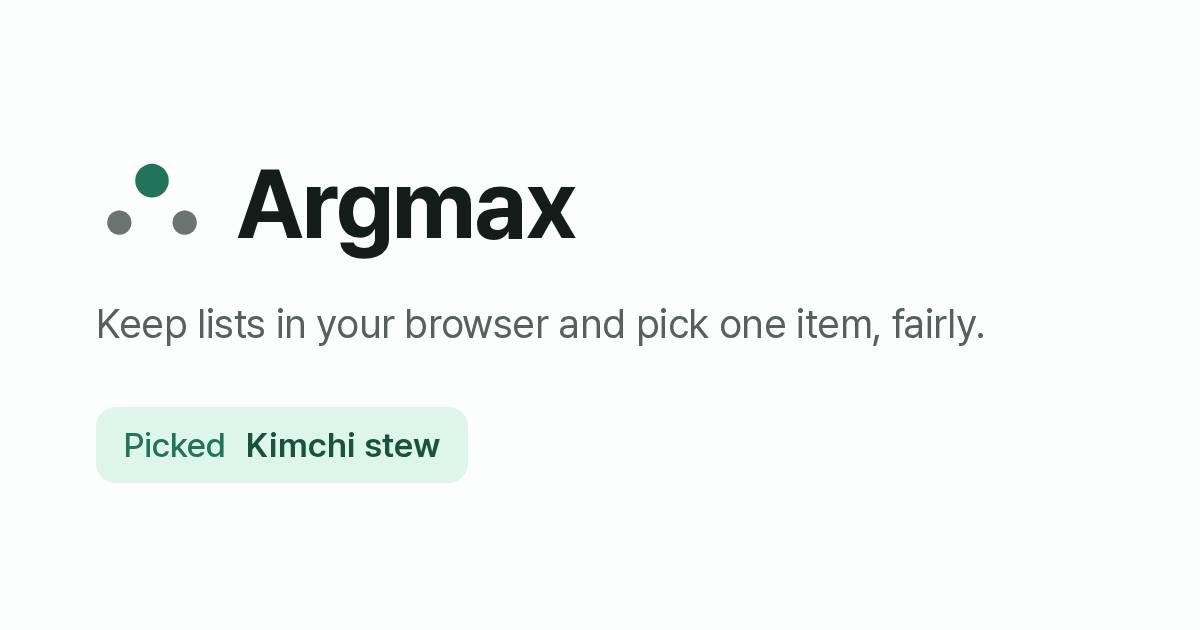
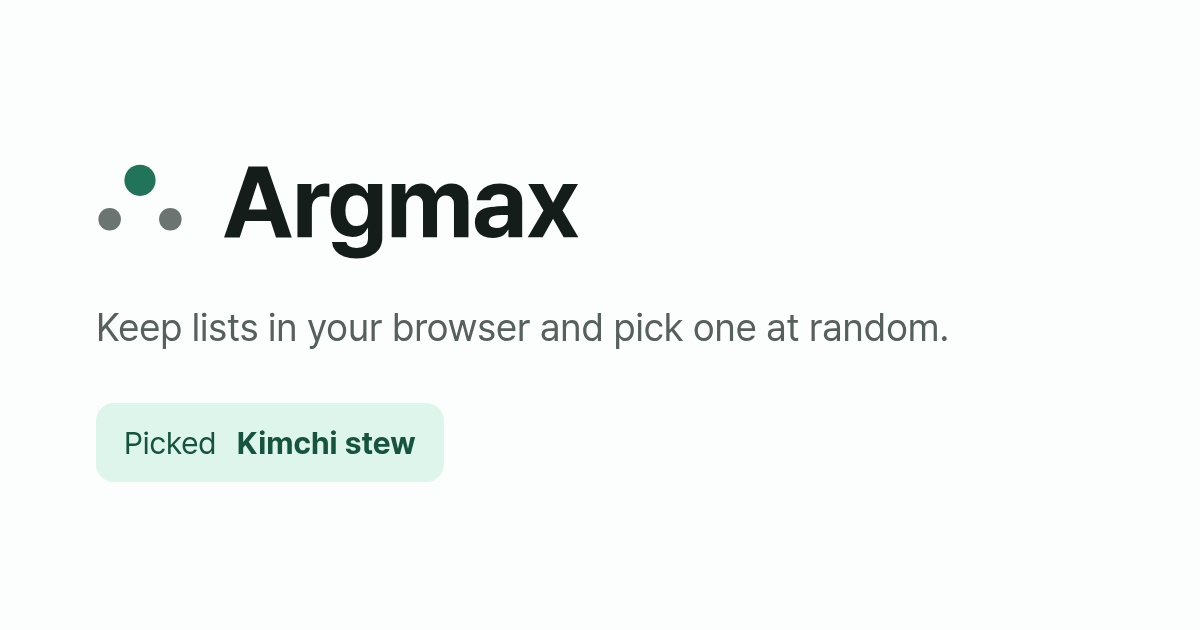
docs: describe Argmax without making fairness its theme
The owner does not position Argmax around fairness. The tagline becomes "Keep lists in your browser and pick one at random." in the meta description, Open Graph text, image alt text, and the Open Graph image, which was rendered again at 1200 x 630 from the app's own fonts and tokens (PNG with no metadata chunks). The READMEs and the changelog drop "equal chance" and "a fair pick"; the pick feature reads "Pick one item at random, with a short animation, and pick again as often as you like." DESIGN.md's personality is now calm, quick, light; PRODUCT.md and AGENTS.md follow, and PRODUCT.md keeps the unbiased pick as a quality property rather than a theme. Code, tests, and the PRD's requirement for an unbiased pick are unchanged. Confluence (Problem Brief, PRD, Design Doc, Visual Direction) was updated to match.

Refs: ARG-18

diff --git a/index.html b/index.html
@@ -5,17 +5,17 @@
     <meta name="viewport" content="width=device-width, initial-scale=1.0" />
     <meta name="color-scheme" content="light" />
     <meta name="theme-color" content="#fcfefd" />
-    <meta name="description" content="Keep lists in your browser and pick one item, fairly." />
+    <meta name="description" content="Keep lists in your browser and pick one at random." />
     <link rel="icon" type="image/svg+xml" href="/favicon.svg" />
     <link rel="apple-touch-icon" href="/apple-touch-icon.png" />
     <meta property="og:type" content="website" />
     <meta property="og:title" content="Argmax" />
-    <meta property="og:description" content="Keep lists in your browser and pick one item, fairly." />
+    <meta property="og:description" content="Keep lists in your browser and pick one at random." />
     <meta property="og:url" content="https://argmax.dev1f965x.workers.dev/" />
     <meta property="og:image" content="https://argmax.dev1f965x.workers.dev/og-image.png" />
     <meta property="og:image:width" content="1200" />
     <meta property="og:image:height" content="630" />
-    <meta property="og:image:alt" content="The Argmax logo, the line “Keep lists in your browser and pick one item, fairly.”, and an example: Picked Kimchi stew." />
+    <meta property="og:image:alt" content="The Argmax logo, the line “Keep lists in your browser and pick one at random.”, and an example: Picked Kimchi stew." />
     <meta name="twitter:card" content="summary_large_image" />
     <title>Argmax</title>
   </head>

diff --git a/PRODUCT.md b/PRODUCT.md
@@ -10,15 +10,15 @@ web
 
 ## Users
 
-Individuals and small groups making everyday picks: what to eat, who goes first, which task to do next. The typical moment is a few people together, one of them on a phone, wanting the choice settled quickly and fairly so they can move on. Desktop use is supported but secondary.
+Individuals and small groups making everyday picks: what to eat, who goes first, which task to do next. The typical moment is a few people together, one of them on a phone, wanting the choice settled quickly so they can move on. Desktop use is supported but secondary.
 
 ## Product Purpose
 
-Argmax keeps lists of options in the browser and picks one at random with equal chance. Success means a first-time visitor can create a list and get a pick without instructions (H1), and people reuse saved lists instead of retyping them (H2).
+Argmax keeps lists of options in the browser and picks one at random. Success means a first-time visitor can create a list and get a pick without instructions (H1), and people reuse saved lists instead of retyping them (H2).
 
 ## Positioning
 
-Differentiation from existing tools (Wheel of Names, Picker Wheel, random.org List Randomizer, Naver's roulette and ladder) is explicitly not a goal; they are references for expected behavior. What Argmax can truthfully claim: saved lists, a fair pick (the browser's cryptographic random source, mapped to an item without modulo bias and covered by a distribution test), no account, and lists that never leave the browser.
+Differentiation from existing tools (Wheel of Names, Picker Wheel, random.org List Randomizer, Naver's roulette and ladder) is explicitly not a goal; they are references for expected behavior. What Argmax can truthfully claim: saved lists, an unbiased random pick (the browser's cryptographic random source, mapped to an item without modulo bias and covered by a distribution test; a quality property, not the product's theme), no account, and lists that never leave the browser.
 
 ## Operating Context
 
@@ -47,7 +47,7 @@ None. There are no users, testimonials, metrics, or case studies yet, and none m
 
 ## Product Principles
 
-1. The pick is the point: every screen shortens the way to a fair pick.
+1. The pick is the point: every screen shortens the way to a pick.
 2. Reuse over retyping: saved lists are easy to find and open.
 3. Honest about storage: users always know their lists stay in this browser, and failures are never silent.
 4. Works for everyone: keyboard, screen reader, 360 px phones, and both languages are part of done, not extras.

diff --git a/README.ko.md b/README.ko.md
@@ -5,7 +5,7 @@
 [![CI](https://github.com/dev1f965x/argmax/actions/workflows/ci.yml/badge.svg?branch=main)](https://github.com/dev1f965x/argmax/actions/workflows/ci.yml)
 [![License](https://img.shields.io/github/license/dev1f965x/argmax)](LICENSE)
 
-Argmax는 목록을 만들고 항목을 추가하면 그중 하나를 같은 확률로 무작위로 뽑는 웹 앱입니다.
+Argmax는 목록을 만들고 항목을 추가하면 그중 하나를 무작위로 뽑는 웹 앱입니다.
 
 **사용하기:** <https://argmax.dev1f965x.workers.dev>
 
@@ -14,7 +14,7 @@ Argmax는 목록을 만들고 항목을 추가하면 그중 하나를 같은 확
 ## 기능
 
 - 목록 하나에 항목 최대 1,000개, 항목마다 최대 100자, 목록은 최대 100개까지 만들 수 있습니다.
-- 공정한 뽑기: 브라우저의 암호학적 난수를 써서 모든 항목이 같은 확률로 뽑힙니다.
+- 짧은 애니메이션과 함께 항목 하나를 무작위로 뽑고, 원하는 만큼 다시 뽑을 수 있습니다.
 - 항목 추가, 수정, 삭제(삭제 후 되돌리기 가능), 목록 이름 바꾸기와 삭제를 지원합니다.
 - 목록은 계정 없이 이 브라우저에만 저장되며, 열려 있는 탭끼리 같은 상태로 유지됩니다.
 - 영어와 한국어를 지원하며, 브라우저 언어를 따르고 상단에서 바꿀 수 있습니다.

diff --git a/CHANGELOG.md b/CHANGELOG.md
@@ -15,7 +15,7 @@ First release.
 - Lists: create lists, see them with their item counts, and open each one; a new list opens with the cursor in its item field. Up to 100 lists.
 - Items: add, edit, and remove items, up to 1,000 per list and 100 characters each; Undo after a removal; duplicates are allowed.
 - Rename and delete a list from its actions menu; deleting asks for confirmation, states how many items go with it, and returns to Lists.
-- Pick an item at random with equal chance, using the browser's cryptographic random source: names cycle briefly and settle on the result, which is announced to screen readers; with reduced motion the result appears at once.
+- Pick an item at random: names cycle briefly and settle on the result, which is announced to screen readers; with reduced motion the result appears at once.
 - Lists are saved only in this browser and stay in step across open tabs; storage that is blocked, full, or holds data that cannot be read is reported, with a way to copy or delete unreadable data.
 - English and Korean UI, following the browser's language, with a switch in the header that is remembered.
 - Keyboard and screen reader support, checked with automated axe scans against WCAG 2.2 AA and an NVDA pass; page titles per screen, focus moved to each new screen, and layouts from 360 px phones to desktops.

diff --git a/README.md b/README.md
@@ -5,7 +5,7 @@ English | [한국어](README.ko.md)
 [![CI](https://github.com/dev1f965x/argmax/actions/workflows/ci.yml/badge.svg?branch=main)](https://github.com/dev1f965x/argmax/actions/workflows/ci.yml)
 [![License](https://img.shields.io/github/license/dev1f965x/argmax)](LICENSE)
 
-Argmax is a web app for making picks: create a list, add items, and pick one at random with equal chance.
+Argmax is a web app for making picks: create a list, add items, and pick one at random.
 
 **Use it:** <https://argmax.dev1f965x.workers.dev>
 
@@ -14,7 +14,7 @@ Argmax is a web app for making picks: create a list, add items, and pick one at 
 ## Features
 
 - Lists of up to 1,000 items, each up to 100 characters; up to 100 lists.
-- A fair pick: every item has the same chance, using the browser's cryptographic random source.
+- Pick one item at random, with a short animation, and pick again as often as you like.
 - Add, edit, and remove items, with Undo after a removal; rename and delete lists.
 - Lists stay in this browser only, with no account, and stay in step across open tabs.
 - English and Korean, following the browser's language, with a switch in the header.

diff --git a/DESIGN.md b/DESIGN.md
@@ -1,6 +1,6 @@
 ---
 name: Argmax
-description: Keep lists in your browser and pick one item, fairly.
+description: Keep lists in your browser and pick one at random.
 colors:
   background: "oklch(0.995 0.003 168)"
   surface: "oklch(0.975 0.006 168)"
@@ -105,7 +105,7 @@ Source of truth for tokens is `src/index.css`; this file explains them. Change b
 
 ## Overview
 
-Personality: calm, quick, fair. Argmax is a tool people open in the middle of a conversation to settle a small decision, usually on a phone. The interface stays quiet so the pick result stands out.
+Personality: calm, quick, light. Argmax is a tool people open in the middle of a conversation to settle a small decision, usually on a phone. The interface stays quiet so the pick result stands out.
 
 References and what each contributes:
 

diff --git a/AGENTS.md b/AGENTS.md
@@ -4,7 +4,7 @@ Guidance for coding agents working in this repository. Humans should start with 
 
 ## Project
 
-Argmax is a static single-page web app that keeps lists in the browser and picks one item at random with equal chance. There is no backend. Product context is in [PRODUCT.md](PRODUCT.md); visual design rules and tokens are in [DESIGN.md](DESIGN.md); rules for UI text, terminology, and tone in both languages are in [CONTENT.md](CONTENT.md).
+Argmax is a static single-page web app that keeps lists in the browser and picks one item at random. There is no backend. Product context is in [PRODUCT.md](PRODUCT.md); visual design rules and tokens are in [DESIGN.md](DESIGN.md); rules for UI text, terminology, and tone in both languages are in [CONTENT.md](CONTENT.md).
 
 ## Setup
 
